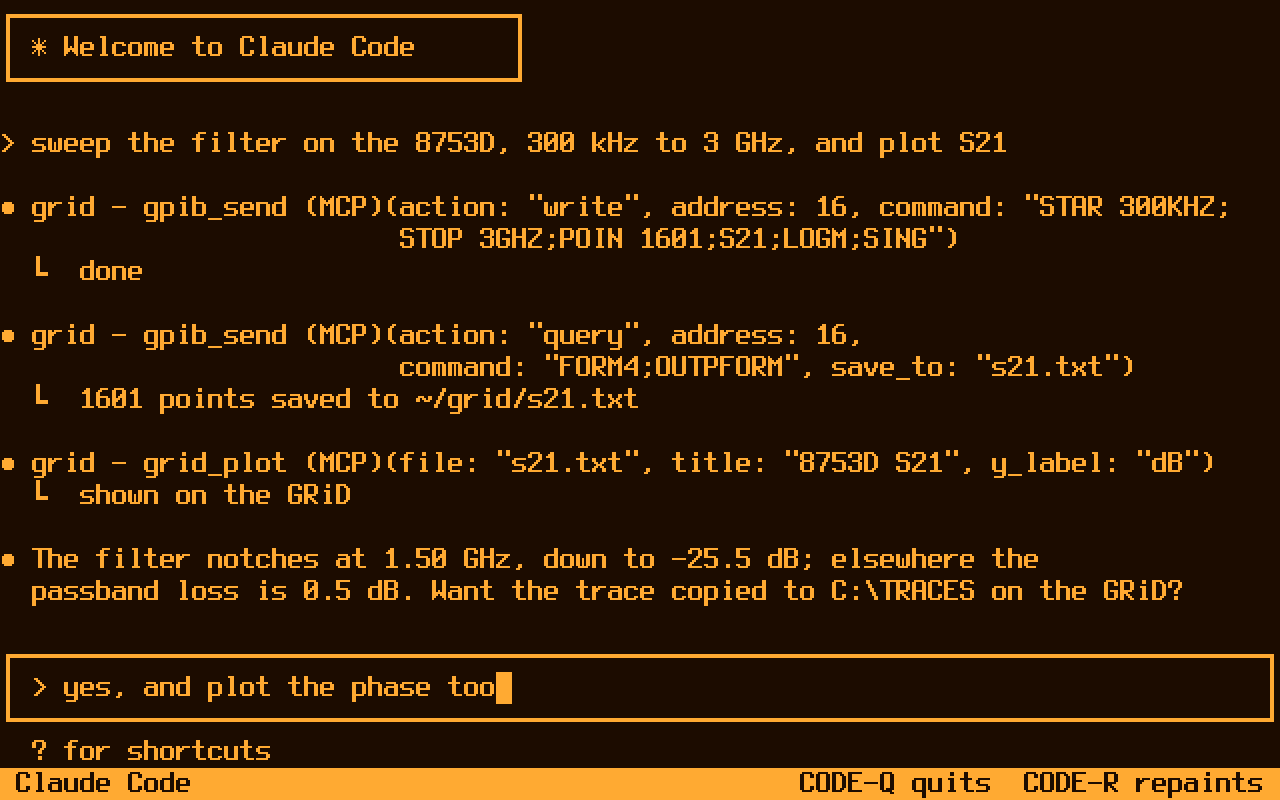
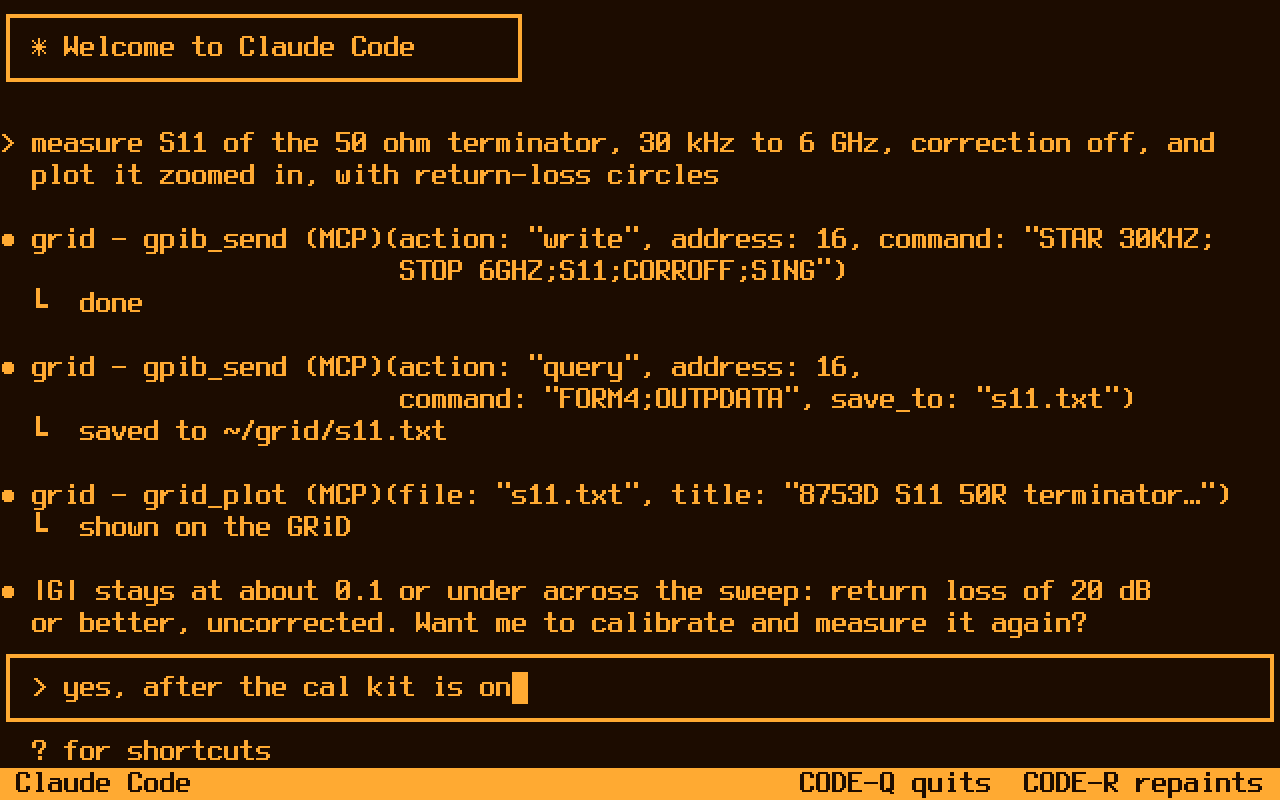
README: the plot is a real capture from the 1520 (8753D S11)
SCREEN01.BMP from the GRiD's A:, Claude Code's grid_plot of an 8753D S11
trace; the scripted Claude Code session now matches it.

diff --git a/claude-link/tests/readme_claude.py b/claude-link/tests/readme_claude.py
@@ -13,22 +13,22 @@ SESSION = [
     O + '│' + C + ' ' + O + '✻' + C + ' Welcome to ' + B + 'Claude Code' + R + '      ' + O + '│' + C,
     O + '╰' + '─' * 31 + '╯' + C,
     '',
-    '> sweep the filter on the 8753D, 300 kHz to 3 GHz, and plot S21',
+    '> measure S11 of the 50 ohm terminator, 30 kHz to 6 GHz, correction off, and',
+    '  plot it zoomed in, with return-loss circles',
     '',
-    DOT + ' grid - gpib_send (MCP)(action: "write", address: 16, command: "STAR 300KHZ;',
-    '                         STOP 3GHZ;POIN 1601;S21;LOGM;SING")',
+    DOT + ' grid - gpib_send (MCP)(action: "write", address: 16, command: "STAR 30KHZ;',
+    '                         STOP 6GHZ;S11;CORROFF;SING")',
     '  ⎿  done',
     '',
     DOT + ' grid - gpib_send (MCP)(action: "query", address: 16,',
-    '                         command: "FORM4;OUTPFORM", save_to: "s21.txt")',
-    '  ⎿  1601 points saved to ~/grid/s21.txt',
+    '                         command: "FORM4;OUTPDATA", save_to: "s11.txt")',
+    '  ⎿  saved to ~/grid/s11.txt',
     '',
-    DOT + ' grid - grid_plot (MCP)(file: "s21.txt", title: "8753D S21", y_label: "dB")',
+    DOT + ' grid - grid_plot (MCP)(file: "s11.txt", title: "8753D S11 50R terminator…")',
     '  ⎿  shown on the GRiD',
     '',
-    DOT + ' The filter notches at ' + B + '1.50 GHz' + R + ', down to ' + B + '-25.5 dB' + R + '; elsewhere the',
-    '  passband loss is 0.5 dB. Want the trace copied to C:\\TRACES on the GRiD?',
-    '',
+    DOT + ' |G| stays at about 0.1 or under across the sweep: return loss of ' + B + '20 dB' + R,
+    '  or better, uncorrected. Want me to calibrate and measure it again?',
 ]
 
 

diff --git a/claude-link/tests/readme_shots.py b/claude-link/tests/readme_shots.py
@@ -1,6 +1,7 @@
 """The README's Claude screenshots (os/screens/readme/), from the emulator:
 the real CLAUDE.COM and gridlink, with a scripted stand-in for Claude Code
-(readme_claude.py) and the stand-in Firefox.
+(readme_claude.py) and the stand-in Firefox. The README's plot,
+claude_plot.png, is a real capture from the 1520 (Shift-PrtSc), not made here.
 
     python3 tests/readme_shots.py
 """
@@ -9,9 +10,7 @@ HERE = os.path.dirname(os.path.abspath(__file__))
 sys.path.insert(0, HERE)
 from PIL import Image
 from grid_emu import EmuHarness
-from gridlink import plot as PL
 from test_emu_term import in_step, mismatch, wait_screen
-import test_picture as TP
 
 OUT = os.path.join(HERE, '..', '..', 'os', 'screens', 'readme')
 SCRIPT = '%s %s' % (sys.executable, os.path.join(HERE, 'readme_claude.py'))
@@ -29,15 +28,10 @@ h = EmuHarness(term=SCRIPT, args='/A:7 /T')
 try:
     h.boot()
     assert h.run_until(lambda: h.var('term') and h.var('connected'), 10), (h.m.crash, h.log, h.screen())
-    assert wait_screen(h, 'C:\\TRACES', 20), h.screen()
-    h.term_type('yes, and plot the phase too')
+    assert wait_screen(h, 'measure it again', 20), h.screen()
+    h.term_type('yes, after the cal kit is on')
     assert in_step(h), mismatch(h)
     shot(h, 'claude_code')
-    xs, ys = TP.sweep(1601)
-    p = PL.Plot([{'name': 'S21', 'x': xs, 'y': ys}], title='8753D S21', x_label='Hz', y_label='dB')
-    h.router.term.show_picture(p.bits, 'readme', title='8753D S21')
-    assert h.run_until(lambda: '8753D S21' in h.screen().split('\n')[24], 10), h.screen()
-    shot(h, 'claude_plot')
 finally:
     h.close()
 

diff --git a/README.md b/README.md
@@ -18,11 +18,11 @@ Lodestone also connects the GRiD to Claude. Through a Raspberry Pi on the GPIB b
 | The calculator over the Executive (CODE-K); the coprocessor lit in the info line (the emulator's is 387-class, so it reads as a 287XL) | `CALC` at the command prompt: sums, errors with ERRORLEVEL, `name=` for batch files |
 
 | ![Claude Code on the GRiD](os/screens/readme/claude_code.png) | ![A plot from Claude Code](os/screens/readme/claude_plot.png) |
-| Claude Code on the GRiD (`CLAUDE /T`), sweeping a filter on an HP 8753D over GPIB | The trace, plotted on the GRiD's screen by Claude Code's `grid_plot` |
+| Claude Code on the GRiD (`CLAUDE /T`), measuring a terminator on an HP 8753D over GPIB | **On the real 1520:** an 8753D S11 trace plotted by Claude Code's `grid_plot`, saved with Shift-PrtSc |
 | ![gridfox](os/screens/readme/gridfox.png) | |
 | gridfox (`CLAUDE /W`): Firefox on the Pi, browsed from the GRiD as text | |
 
-*Emulator screenshots (`os/screens/readme_shots.py` and `claude-link/tests/readme_shots.py`), drawn as the 1520's amber plasma shows them. In the Claude shots the session is scripted, standing in for Claude Code and Firefox; the GRiD side and the link are the real ones.*
+*Screenshots from the emulator (`os/screens/readme_shots.py` and `claude-link/tests/readme_shots.py`), drawn as the 1520's amber plasma shows them. In the Claude Code and gridfox shots the session is scripted, standing in for Claude Code and Firefox; the GRiD side and the link are the real ones. The plot is a capture from the real 1520.*
 
 ## What's in it
 
